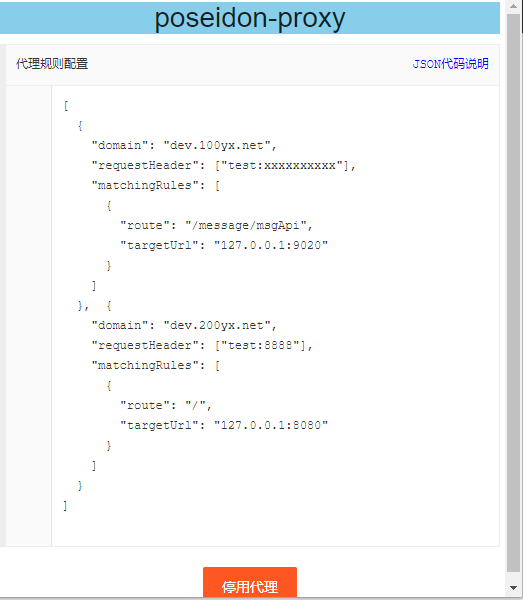
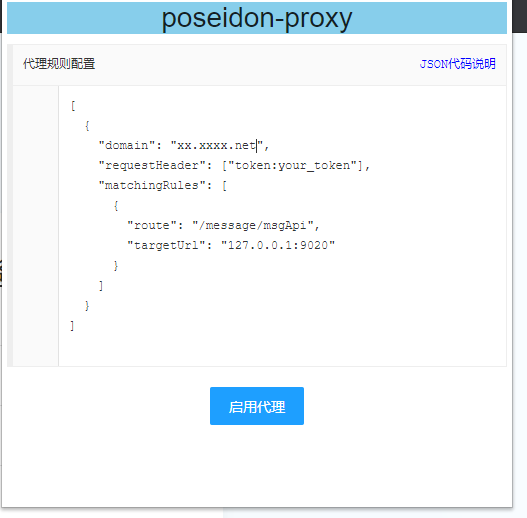
tag(2.1.1): tag

diff --git a/readme.md b/readme.md
@@ -51,7 +51,7 @@
 ```json 
 [
   {
-    "domain": "dev.100yx.net",
+    "domain": "xx.xx.net",
     "requestHeader": ["test:xxxxxxxxxx"],
     "matchingRules": [
       {
@@ -60,7 +60,7 @@
       }
     ]
   },  {
-    "domain": "dev.200yx.net",
+    "domain": "xx.xxxx.net",
     "requestHeader": ["test:8888"],
     "matchingRules": [
       {
@@ -73,10 +73,10 @@
 
 ```
 
-点击json代码说明可查看字段含义。示例中是对两个域名 dev.100yx.net 和 dev.200yx.net 进行了代理；
-凡是通过浏览器访问 http://dev.100yx.net/message/msgApi 开头的请求都会被代理到127.0.0.1:9020这个端口上去；
+点击json代码说明可查看字段含义。示例中是对两个域名 xx.xx.net 和 xx.xxxx.net 进行了代理；
+凡是通过浏览器访问 http://xx.xx.net/message/msgApi 开头的请求都会被代理到127.0.0.1:9020这个端口上去；
 并且会添加请求头 test:xxxxxxxxxx。
-如我访问 http://dev.100yx.net/message/msgApi/test 会被代理到 http://127.0.0.1:9020/message/msgApi/test 
+如我访问 http://xx.xxxx.net/message/msgApi/test 会被代理到 http://127.0.0.1:9020/xxxx/test 
 请求头中会包含信息 test:xxxxxxxxxx。
 dev.200yx.net 同理。
 
